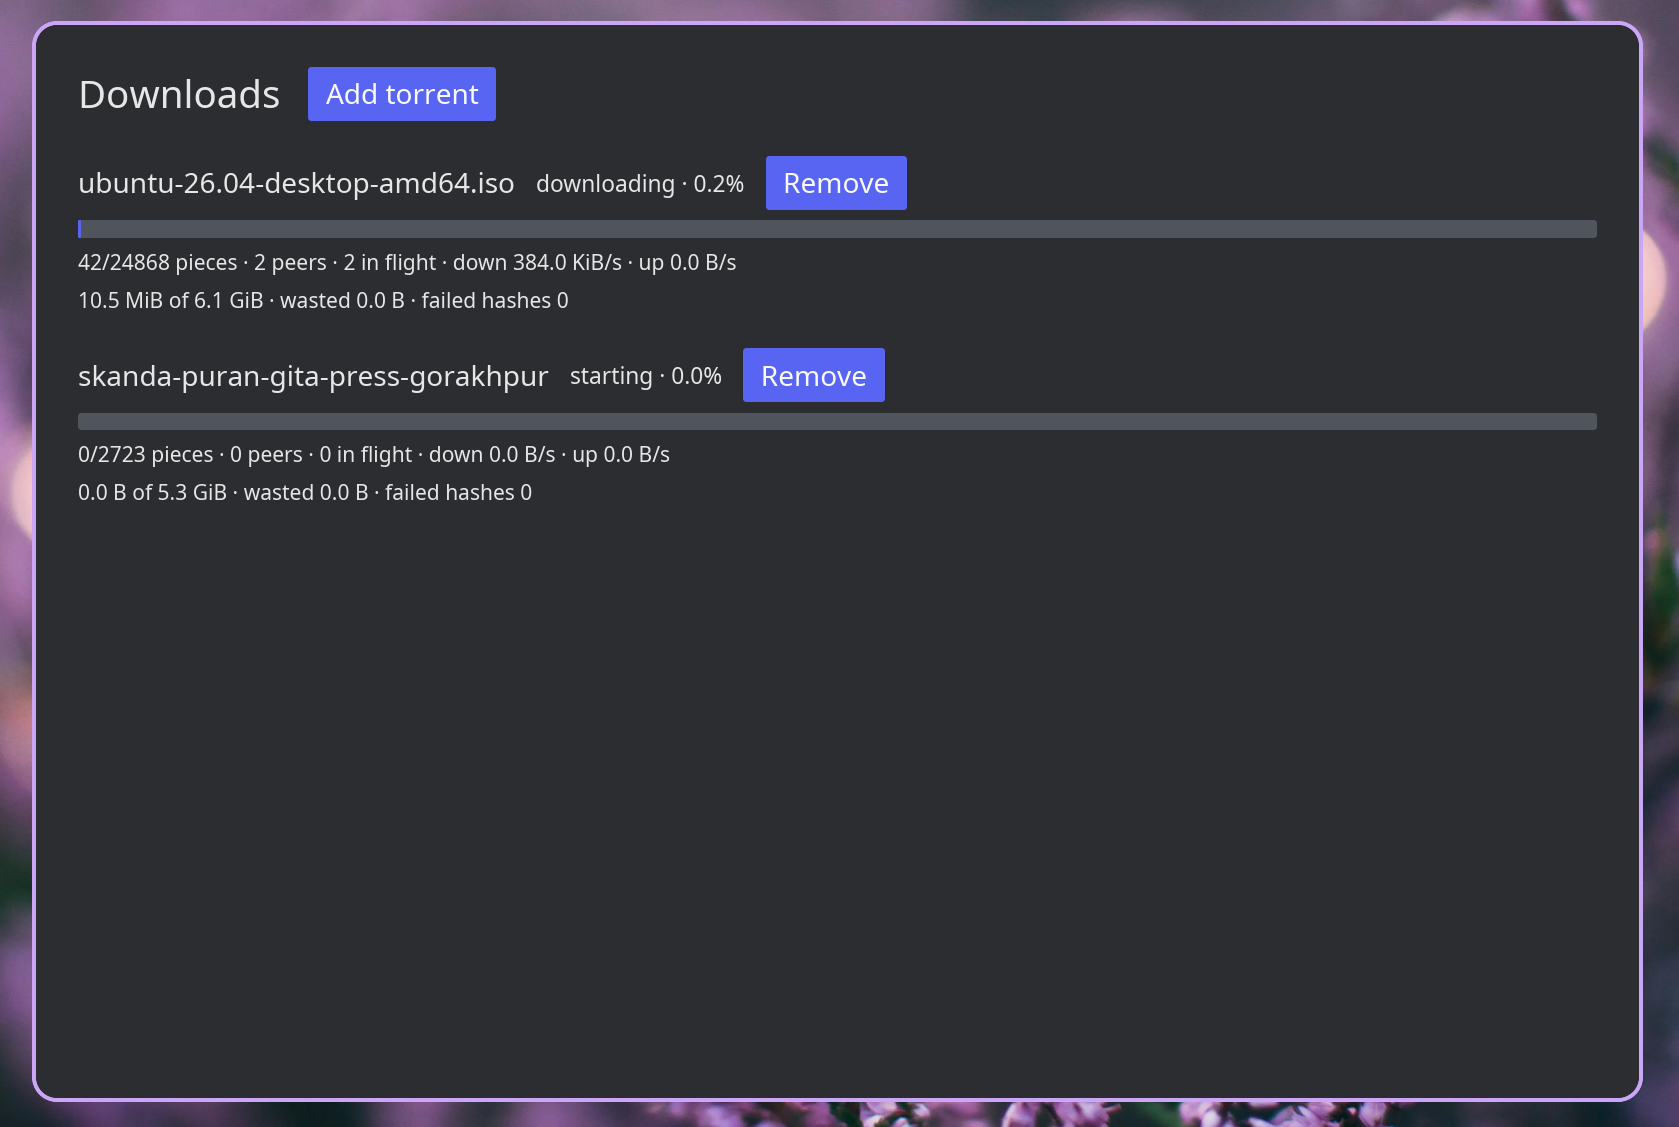
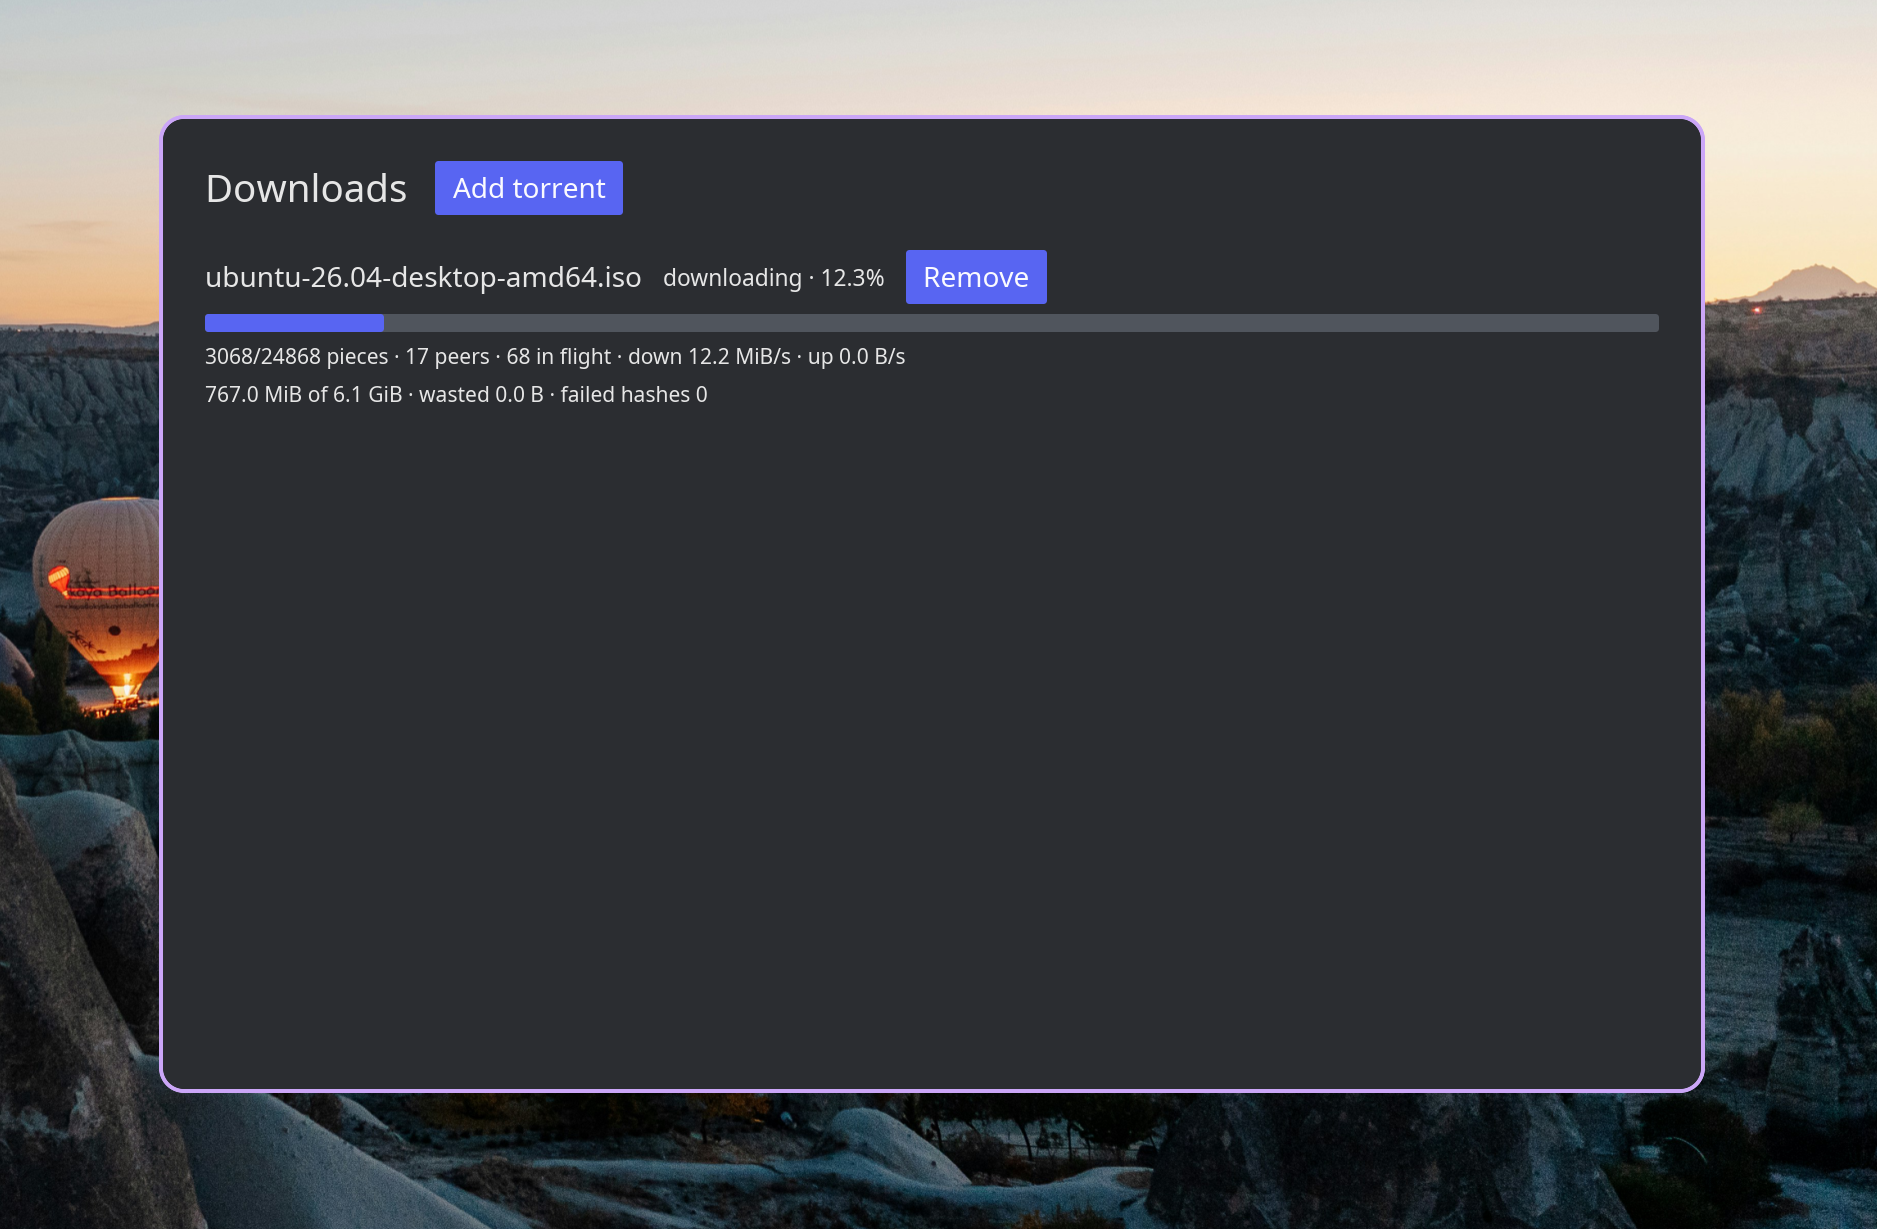
docs: add crates.io, docs.rs and YouTube badges, and a fresh screenshot

diff --git a/README.md b/README.md
@@ -2,9 +2,13 @@
 
 # Dhaar Torrent _(धार टॉरेंट)_
 
+[![crates.io](https://img.shields.io/crates/v/dhaar-torrent.svg?logo=rust)](https://crates.io/crates/dhaar-torrent)
+[![docs.rs](https://img.shields.io/docsrs/dhaar-torrent?logo=docsdotrs)](https://docs.rs/dhaar-torrent)
+[![YouTube](https://img.shields.io/badge/YouTube-build%20log-FF0000?logo=youtube&logoColor=white)](https://www.youtube.com/playlist?list=PLCjPsGYL4lfFoyjCFFrf8qKf20SaW6qfz)
+
 A torrent client written in Rust. Unserious. Built for fun.
 
-![the reference GUI client, downloading two torrents](https://raw.githubusercontent.com/PiyushXCoder/dhaar-torrent/master/assets/dhaar-gui.png)
+![the reference GUI client, pulling an Ubuntu ISO at 12.2 MiB/s](https://raw.githubusercontent.com/PiyushXCoder/dhaar-torrent/master/assets/dhaar-gui.png)
 
 ## Status
 
